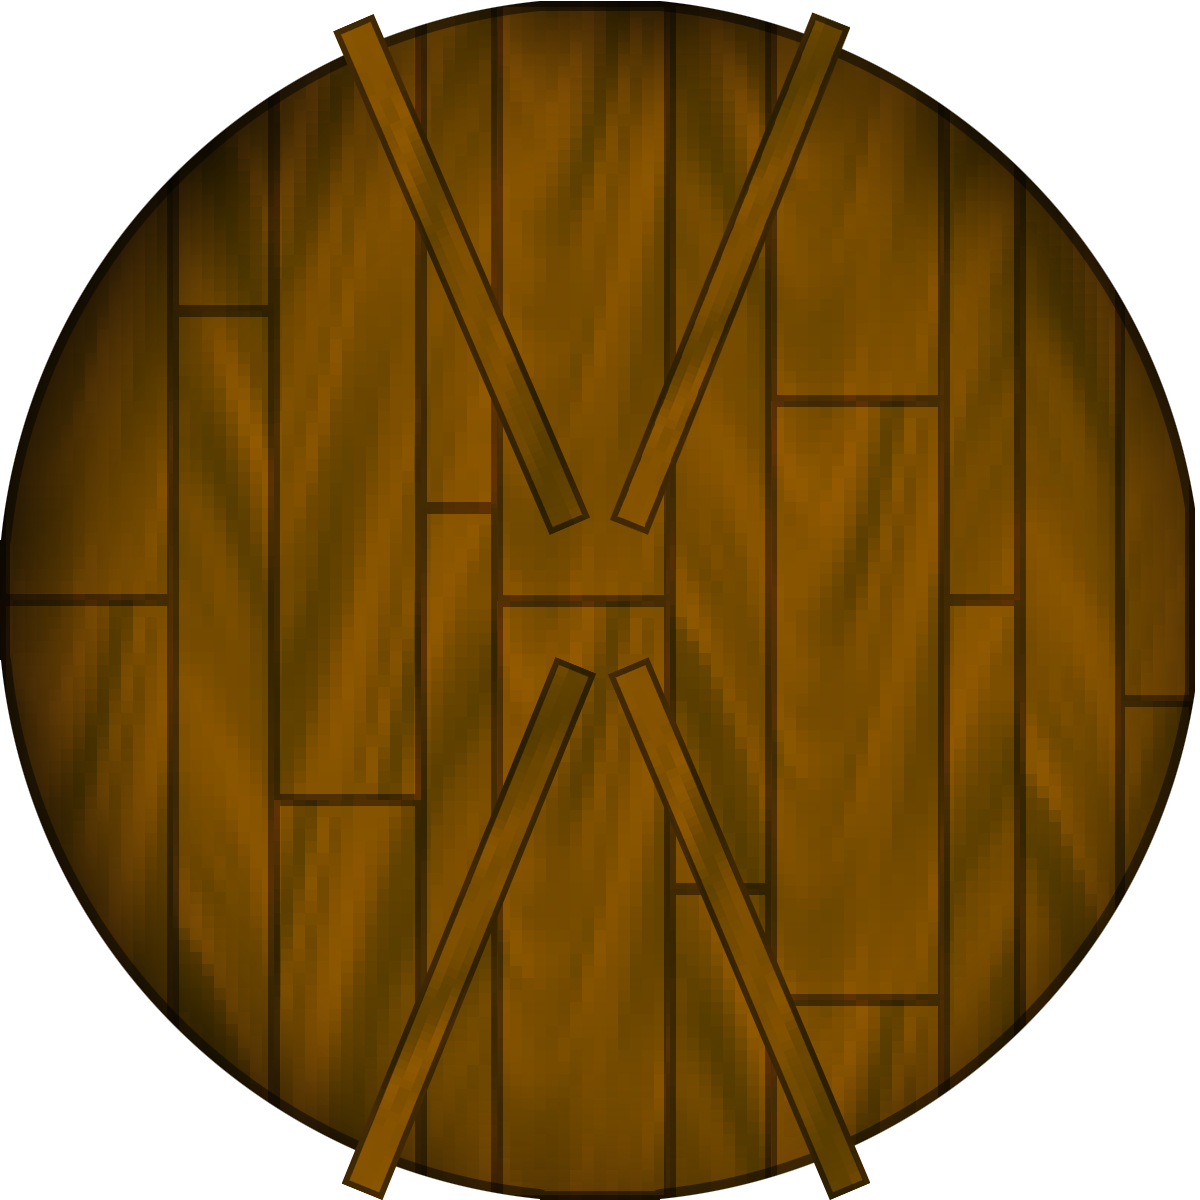
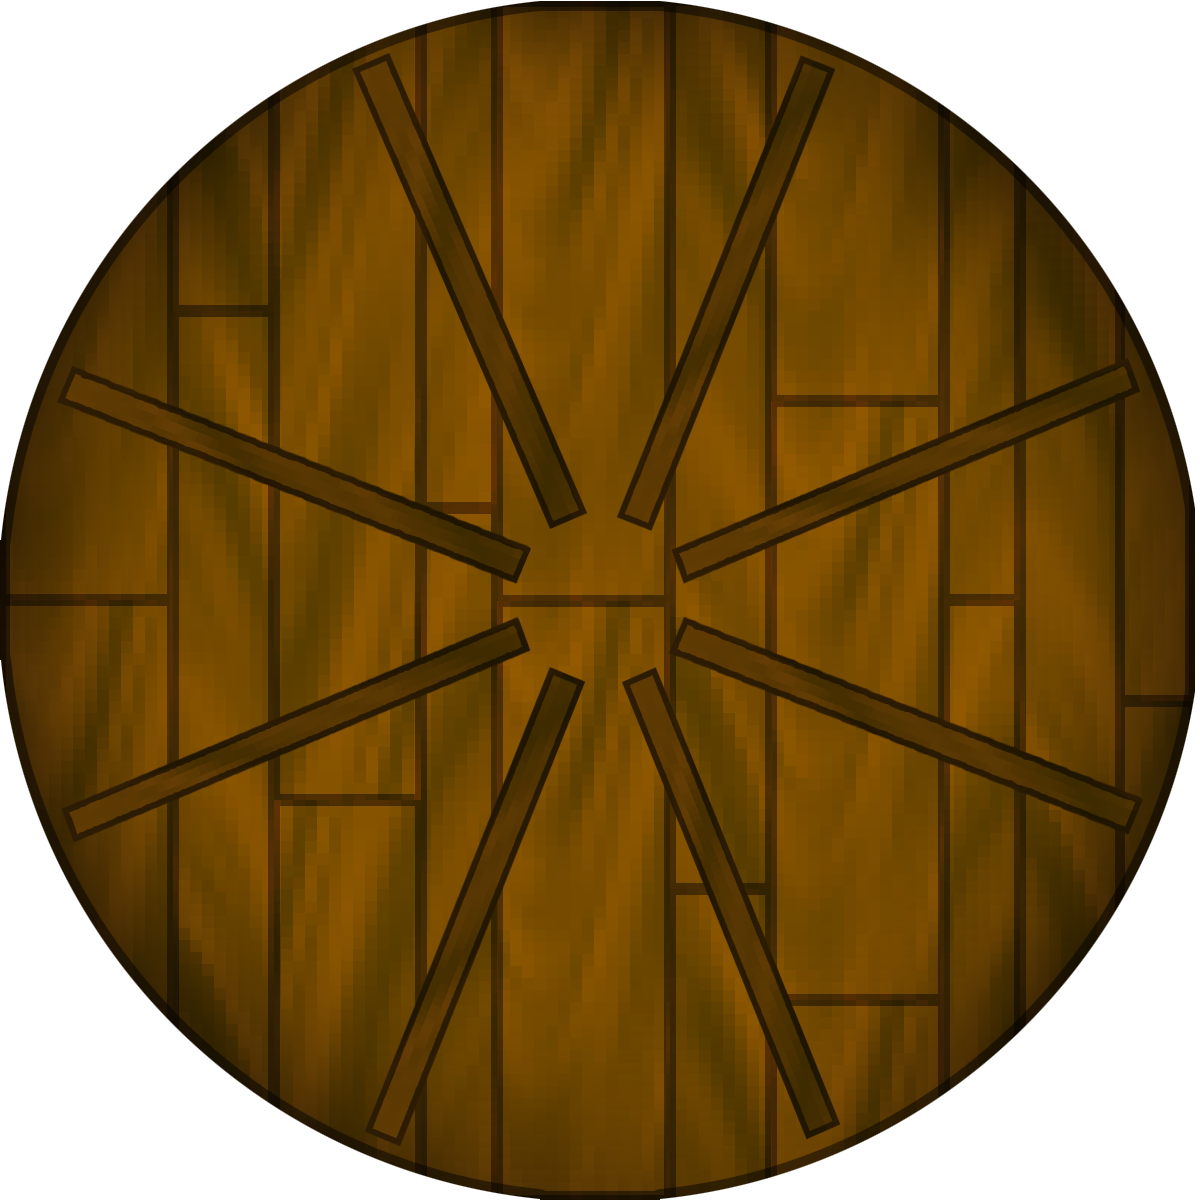
building up skill wheel

diff --git a/src/data/skillTree.js b/src/data/skillTree.js
@@ -32,18 +32,18 @@ let sliceSchema = [
         x: 273,
         y: 160,
         type: 'skill',
-        name: 'skill-two',
-        title: 'Skill Two',
-        desc: 'Skill Two is awesome because reasons',
+        name: 'two-hand1hand',
+        title: 'Two Handed Weapons with One Hand',
+        desc: 'Able to equip two-handed weapons in a single hand.',
         neighbors: [0,1,6]
     },
     {
         x: 468,
         y: 151,
         type: 'skill',
-        name: 'skill-three',
-        title: 'Skill Three',
-        desc: 'Skill Three is awesome because reasons',
+        name: 'crit-dmg-up',
+        title: 'Increase Critical Hit Damage',
+        desc: 'When landing a critical hit, it\'ll do extra damage.',
         neighbors: [2,3,7]
     },
     {
@@ -71,9 +71,10 @@ let sliceSchema = [
         x: 378,
         y: 258,
         type: 'skill',
-        name: 'skill-one',
-        title: 'Skill One',
-        desc: 'Skill One is awesome because reasons',
+        name: 'berserker',
+        title: 'Berserker',
+        desc: 'The hero performs a flurry of quick attacks at the beginning of a raid.',
+        introSkill: true,
         neighbors: [6,7,11,12]
     },
     {
@@ -101,9 +102,9 @@ let sliceSchema = [
         x: 378,
         y: 376,
         type: 'skill',
-        name: 'skill-four',
-        title: 'Skill Four',
-        desc: 'Skill Four is awesome because reasons',
+        name: 'no-weight',
+        title: 'No Over Encumberment',
+        desc: 'The hero cannot become over encumbered.',
         neighbors: [11,12,14,15]
     },
     {
@@ -128,36 +129,120 @@ let sliceSchema = [
         neighbors: [14,15,'center']
     }
 ];
+let strDexSkills = [
+    {
+        x: 651,//-215
+        y: 363,//+35
+        type: 'skill',
+        name: 'unarmed-attack',
+        title: 'Unarmed Attack Bonus',
+        desc: 'The hero can make strong attacks without a weapon equipped.\ndmg = str x dex',
+        neighbors: [6,7,11,12]
+    },
+    {
+        x: 657,
+        y: 212,
+        type: 'skill',
+        name: 'sneak-attack',
+        title: 'Sneak Attack',
+        desc: 'The hero catches enemies off gaurd and lands an attack before battle time begins.',
+        neighbors: [6,7,11,12]
+    },
+    {
+        x: 800,
+        y: 347,
+        type: 'skill',
+        name: 'micro-meditation',
+        title: 'Micro Meditation',
+        desc: 'The hero heals a small amoutn of health when the enemies misses an attack.',
+        neighbors: [6,7,11,12]
+    },
+    {
+        x: 577,
+        y: 441,
+        type: 'skill',
+        name: 'dodge-first',
+        title: 'Dodge First attack',
+        desc: 'The hero always dodges the first attack in a battle.',
+        neighbors: [6,7,11,12]
+    }
+];
 
-let strSkills = [
+let dexSkills = [
+    {
+        x: 766,
+        y: 635,
+        type: 'skill',
+        name: 'two-one-handed',
+        title: 'Equip two One-Handed Weapons',
+        desc: 'The hero can equip two one-handed weapons. One in each hand.',
+        neighbors: [6,7,11,12]
+    }
+];
 
+let dexVitSkills = [
     {
-        name: 'two-hand1hand',
-        title: 'Two Handed Weapons with One Hand',
-        desc: 'Able to equip two-handed weapons in a single hand.'
-    },
+        x: 678,
+        y: 932,
+        type: 'skill',
+        name: 'crit-heal',
+        title: 'Crit Heal',
+        desc: 'When landing a Critical hit in battle, the hero gains health.',
+        neighbors: [6,7,11,12]
+    }
+];
+
+let vitSkills = [
     {
-        name: 'crit-dmg-up',
-        title: 'Increase Critical Hit Damage',
-        desc: 'When landing a critical hit, it\'ll do extra damage.'
-    },
+        x: 338,
+        y: 1036,
+        type: 'skill',
+        name: 'vitality-mastery',
+        title: 'Vitality Mastery',
+        desc: 'Twice the hero\'s vitality score is added to max HP.',
+        neighbors: [6,7,11,12]
+    }
+];
+
+let vitWisSkills = [
     {
-        name: 'berserker',
-        title: 'Berserker',
-        desc: 'Performs a flurry of quick attacks at the beginning of a raid.',
-        introSkill: true
-    },
+        x: 103,
+        y: 939,
+        type: 'skill',
+        name: 'heal',
+        title: 'Heal',
+        desc: 'The hero gains a heal spell which can be used like a potion. It takes a while to recharge though.',
+        neighbors: [6,7,11,12]
+    }
+];
+
+let wisSkills = [
     {
-        name: 'no-weight',
-        title: 'No Over Encumberment',
-        desc: 'The player cannot become over encumbered.'
+        x: -12,
+        y: 641,
+        type: 'skill',
+        name: 'tomes',
+        title: 'Tomes',
+        desc: 'The hero can read and equip Tomes. Tomes hold various spells that can be used in battle.',
+        neighbors: [6,7,11,12]
+    }
+];
+
+let wisStrSkills = [
+    {
+        x: 94,
+        y: 347,
+        type: 'skill',
+        name: 'magic-attack',
+        title: 'Magic Attack',
+        desc: 'The hero\'s weapon attacks are imbued with magic damage.',
+        neighbors: [6,7,11,12]
     }
 ];
 
 function generateSlice (attrIndex){
     let strSlice;
     strSlice = sliceSchema.slice(0);
-    let currentSkill = 0;
     strSlice.forEach(item => {
         if(item.type === 'attr'){
             let adjustedIndex = item.attr + attrIndex;
@@ -170,14 +255,17 @@ function generateSlice (attrIndex){
                 setAttr = slices[adjustedIndex];
             }
             item.attr = setAttr;
-        } else if(item.type === 'skill'){
-            Object.assign(item, strSkills[currentSkill]);
-            currentSkill += 1;
         }
     });
-
     return strSlice;
 }
 
-let strSlice = generateSlice(0);
-export default strSlice;
+let skillSlices = generateSlice(0)
+    .concat(strDexSkills)
+    .concat(dexSkills)
+    .concat(dexVitSkills)
+    .concat(vitSkills)
+    .concat(vitWisSkills)
+    .concat(wisSkills)
+    .concat(wisStrSkills);
+export default skillSlices;

diff --git a/src/states/SkillTree.js b/src/states/SkillTree.js
@@ -3,14 +3,16 @@ import Phaser from 'phaser';
 import Dialogue from '../components/Dialogue';
 import MainNavigation from '../components/MainNavigation';
 import Avatar from '../components/Avatar';
-import strSlice from '../data/skillTree';
+import skillSlices from '../data/skillTree';
 
 export default class extends Phaser.State {
     constructor(){
         super();
         this.startDrag = this.startDrag.bind(this);
         this.stopDrag = this.stopDrag.bind(this);
-        this.skills = strSlice.slice(0);
+        this.skills = skillSlices.slice(0);
+
+        this.debug = true;
     }
 
     init () {
@@ -31,7 +33,8 @@ export default class extends Phaser.State {
     create () {
         this.skillWheel = this.game.add.group();
         this.skillWheel.position.setTo(this.game.world.centerX, this.game.world.centerY+100);
-        let wheelBg = this.game.add.sprite(this.game.world.centerX, this.game.world.centerY+100, 'skill_wheel');
+        let wheelSprite = this.debug ? 'skill_wheel_debug' : 'skill_wheel';
+        let wheelBg = this.game.add.sprite(this.game.world.centerX, this.game.world.centerY+100, wheelSprite);
         wheelBg.anchor.setTo(0.5);
         this.skillWheel.add(wheelBg);
 
@@ -47,6 +50,18 @@ export default class extends Phaser.State {
 
         this.skillWheel.pivot.x = this.game.world.centerX;
         this.skillWheel.pivot.y = this.game.world.centerY+100;
+
+        if(!this.game.player.story.chapter1.firstSkillTree){
+            this.game.player.story.chapter1.firstSkillTree = true;
+            this.game.player.savePlayerData();
+            let sliceNumber = this.rand(24,40);
+            let randomStart = 45*sliceNumber;
+            let startTween = this.add.tween(this.skillWheel).to( { angle: randomStart }, 3000, Phaser.Easing.Cubic.Out, true);
+            startTween.onComplete.addOnce(()=>{
+                this.skillWheel.angle = this.wheelRotationSettings[sliceNumber%8];
+            });
+        }
+
     }
 
     addRotationButtons(){
@@ -60,13 +75,13 @@ export default class extends Phaser.State {
     }
 
     rotateLeft(){
-        this.currentRotation -= 1;
-        if(this.currentRotation == -1){ this.skillWheel.angle = 360; this.currentRotation = 7; }
+        this.currentRotation += 1;
+        if(this.currentRotation == 8){ this.skillWheel.angle = -45; this.currentRotation = 0; }
         this.rotateWheel(this.wheelRotationSettings[this.currentRotation]);
     }
     rotateRight(){
-        this.currentRotation += 1;
-        if(this.currentRotation == 8){ this.skillWheel.angle = -45; this.currentRotation = 0; }
+        this.currentRotation -= 1;
+        if(this.currentRotation == -1){ this.skillWheel.angle = 360; this.currentRotation = 7; }
         this.rotateWheel(this.wheelRotationSettings[this.currentRotation]);
     }
 
@@ -80,9 +95,8 @@ export default class extends Phaser.State {
 
         this.skills.forEach((skillItem, index) => {
             let btnSprite = skillItem.type === 'attr' ? 'attr_button' : 'skill_button';
-            let debug = false;
             let skillBtn;
-            if(debug){
+            if(this.debug){
                 //sprite for dragging/debugging
                 skillBtn = this.game.add.sprite(skillItem.x, skillItem.y, btnSprite);
                 let scale = skillItem.type === 'attr' ? 1 : 0.75;
@@ -123,7 +137,6 @@ export default class extends Phaser.State {
     }
 
     showSkillDetail(skill){
-        console.log('clicked skill:', skill);
         let isSkill = skill.type === 'skill';
         let text = isSkill ? `Get skill: ${skill.name}?\n${skill.desc}` : `Get +1 ${skill.attr}?`;
         let attrIndex = isSkill ? 0 : (['str','dex','vit','wis']).indexOf(skill.attr);
@@ -144,6 +157,10 @@ export default class extends Phaser.State {
     }
     stopDrag(sprite, index){
         console.log('stopped dragging this sprite to:', sprite.position, index);
+    }
+
+    rand(min, max) {
+        return Math.floor(Math.random() * (max - min)) + min;
     }
 
     update(){

diff --git a/src/states/Loading.js b/src/states/Loading.js
@@ -19,6 +19,7 @@ export default class extends Phaser.State {
 
         //skill tree UI
         this.game.load.image('skill_wheel', './assets/images/skills/wheel.png');
+        this.game.load.image('skill_wheel_debug', './assets/images/skills/wheel-debug.png');
         this.game.load.image('rot_left', './assets/images/skills/turn-left.png');
         this.game.load.image('rot_right', './assets/images/skills/turn-right.png');
         this.game.load.image('attr_button', './assets/images/skills/attr-button.png');

diff --git a/src/states/Inventory.js b/src/states/Inventory.js
@@ -62,8 +62,6 @@ export default class extends Phaser.State {
         this.itemActionText = this.add.text(665, 485, 'use', Pixel16White);
         this.itemActionText.anchor.setTo(0.5);
         this.itemActionText.visible = false;
-
-
     }
 
     openSkills(){

diff --git a/src/data/story.js b/src/data/story.js
@@ -2,6 +2,7 @@ export let Story = {
     chapter1: {
         start: false,
         firstRaid: false,
+        firstSkillTree: false,
         shopKeepersDebt: false,
         firstLootDrop: false,
         timesCheckedShop: 0,
